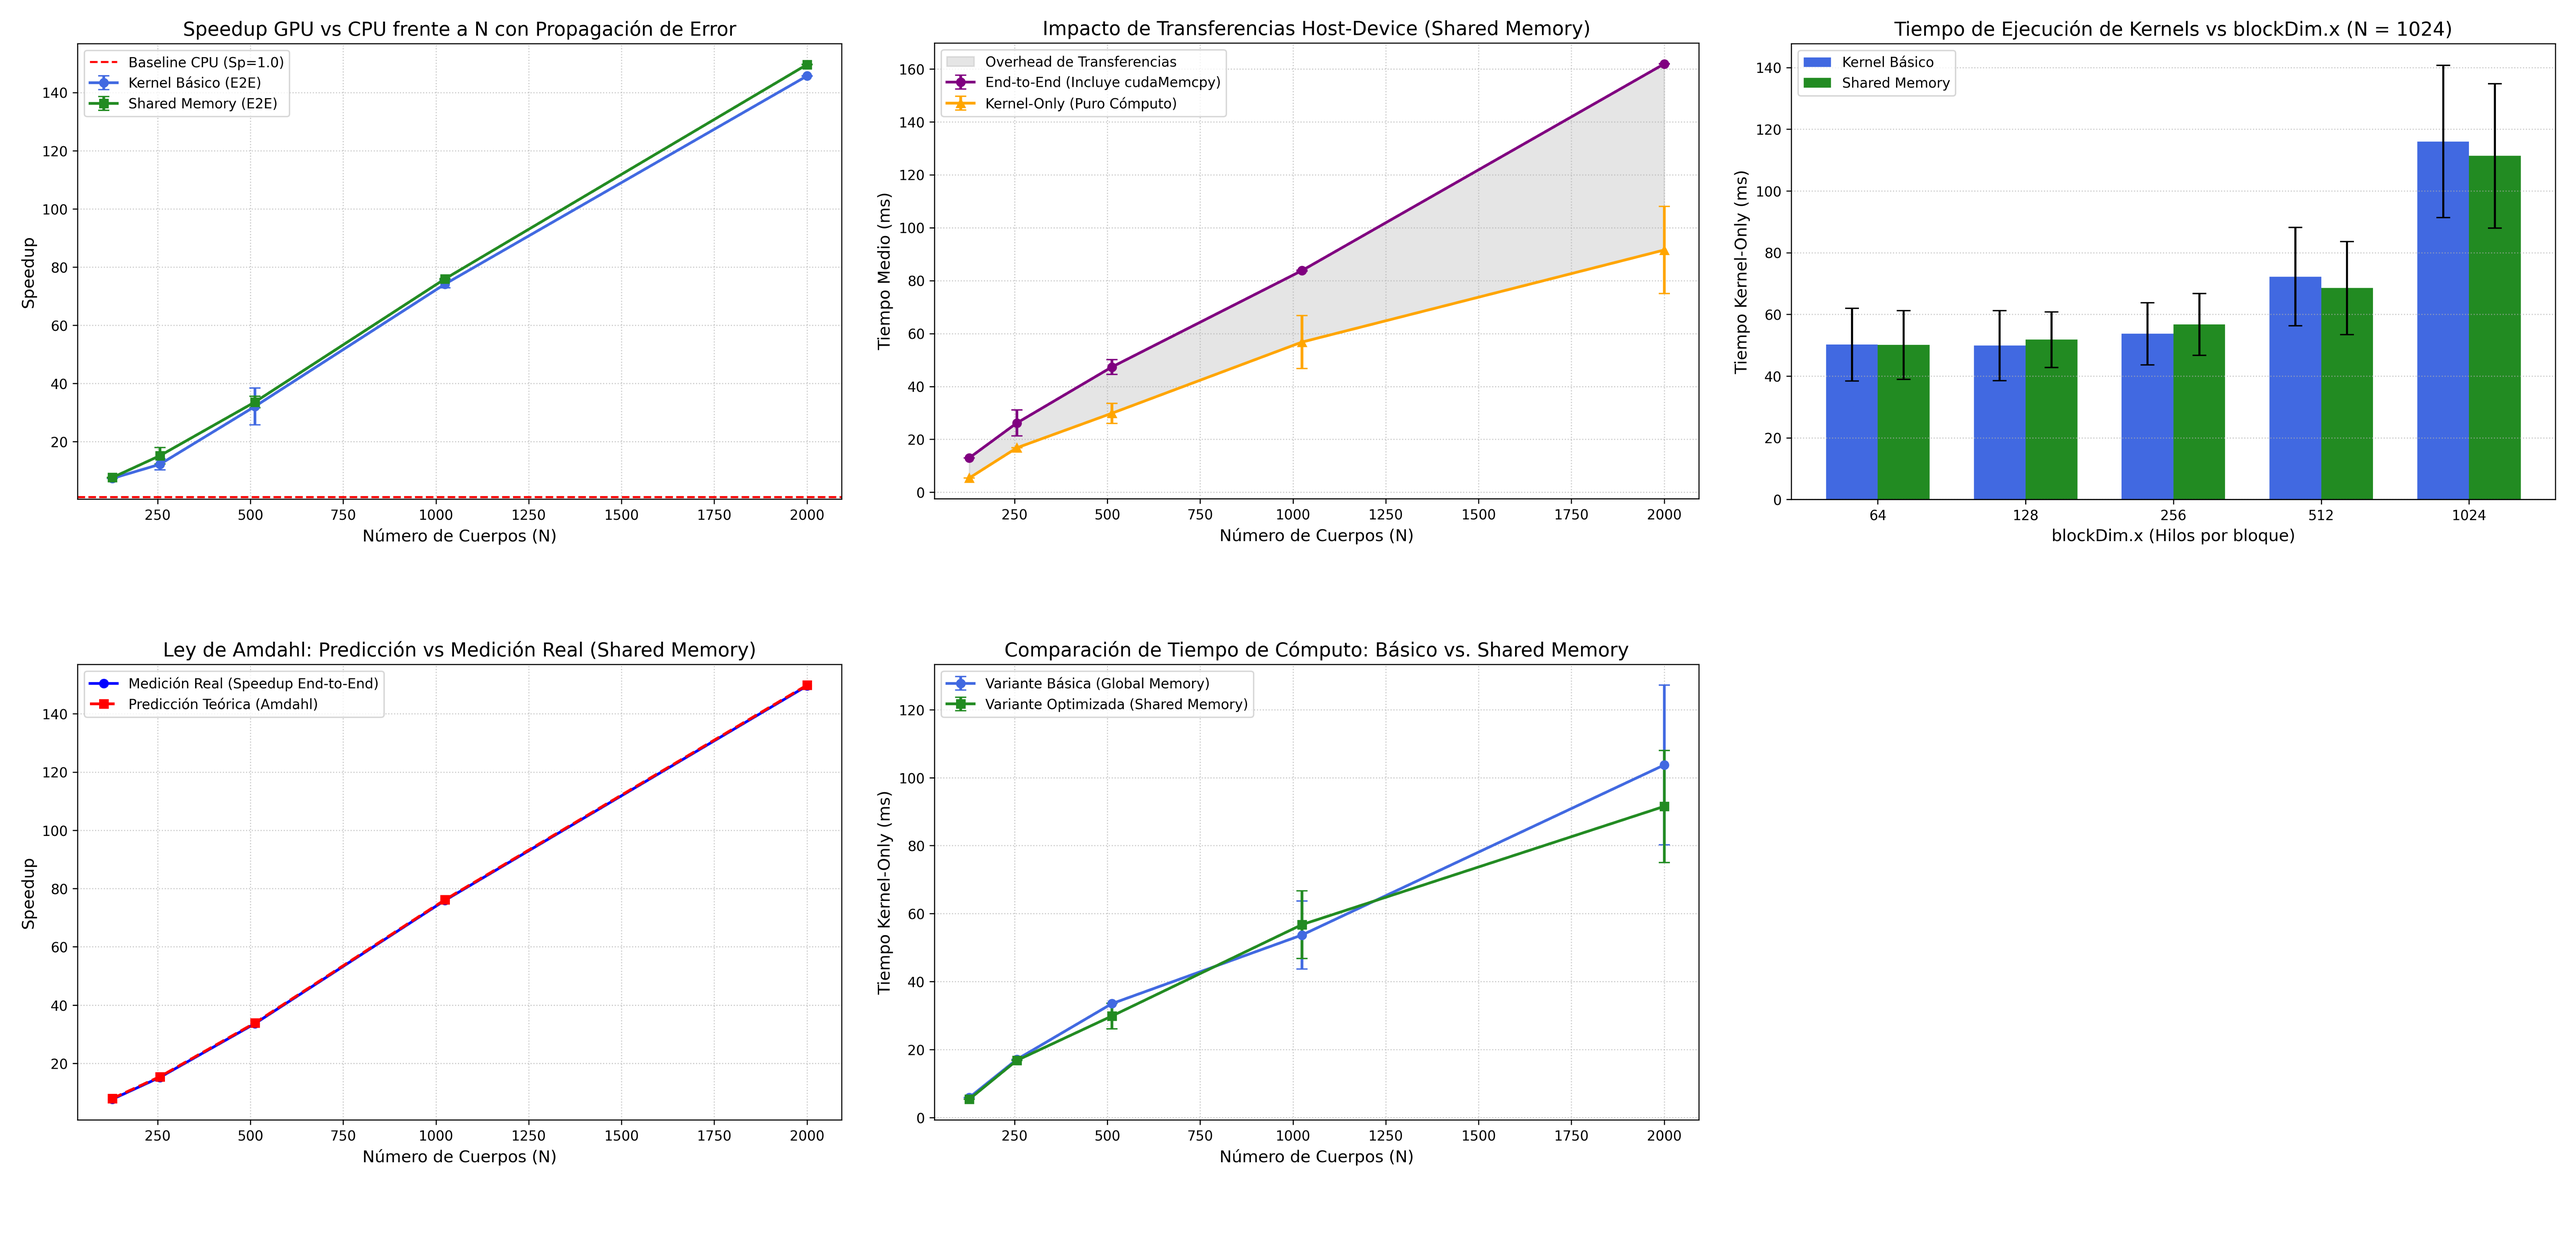
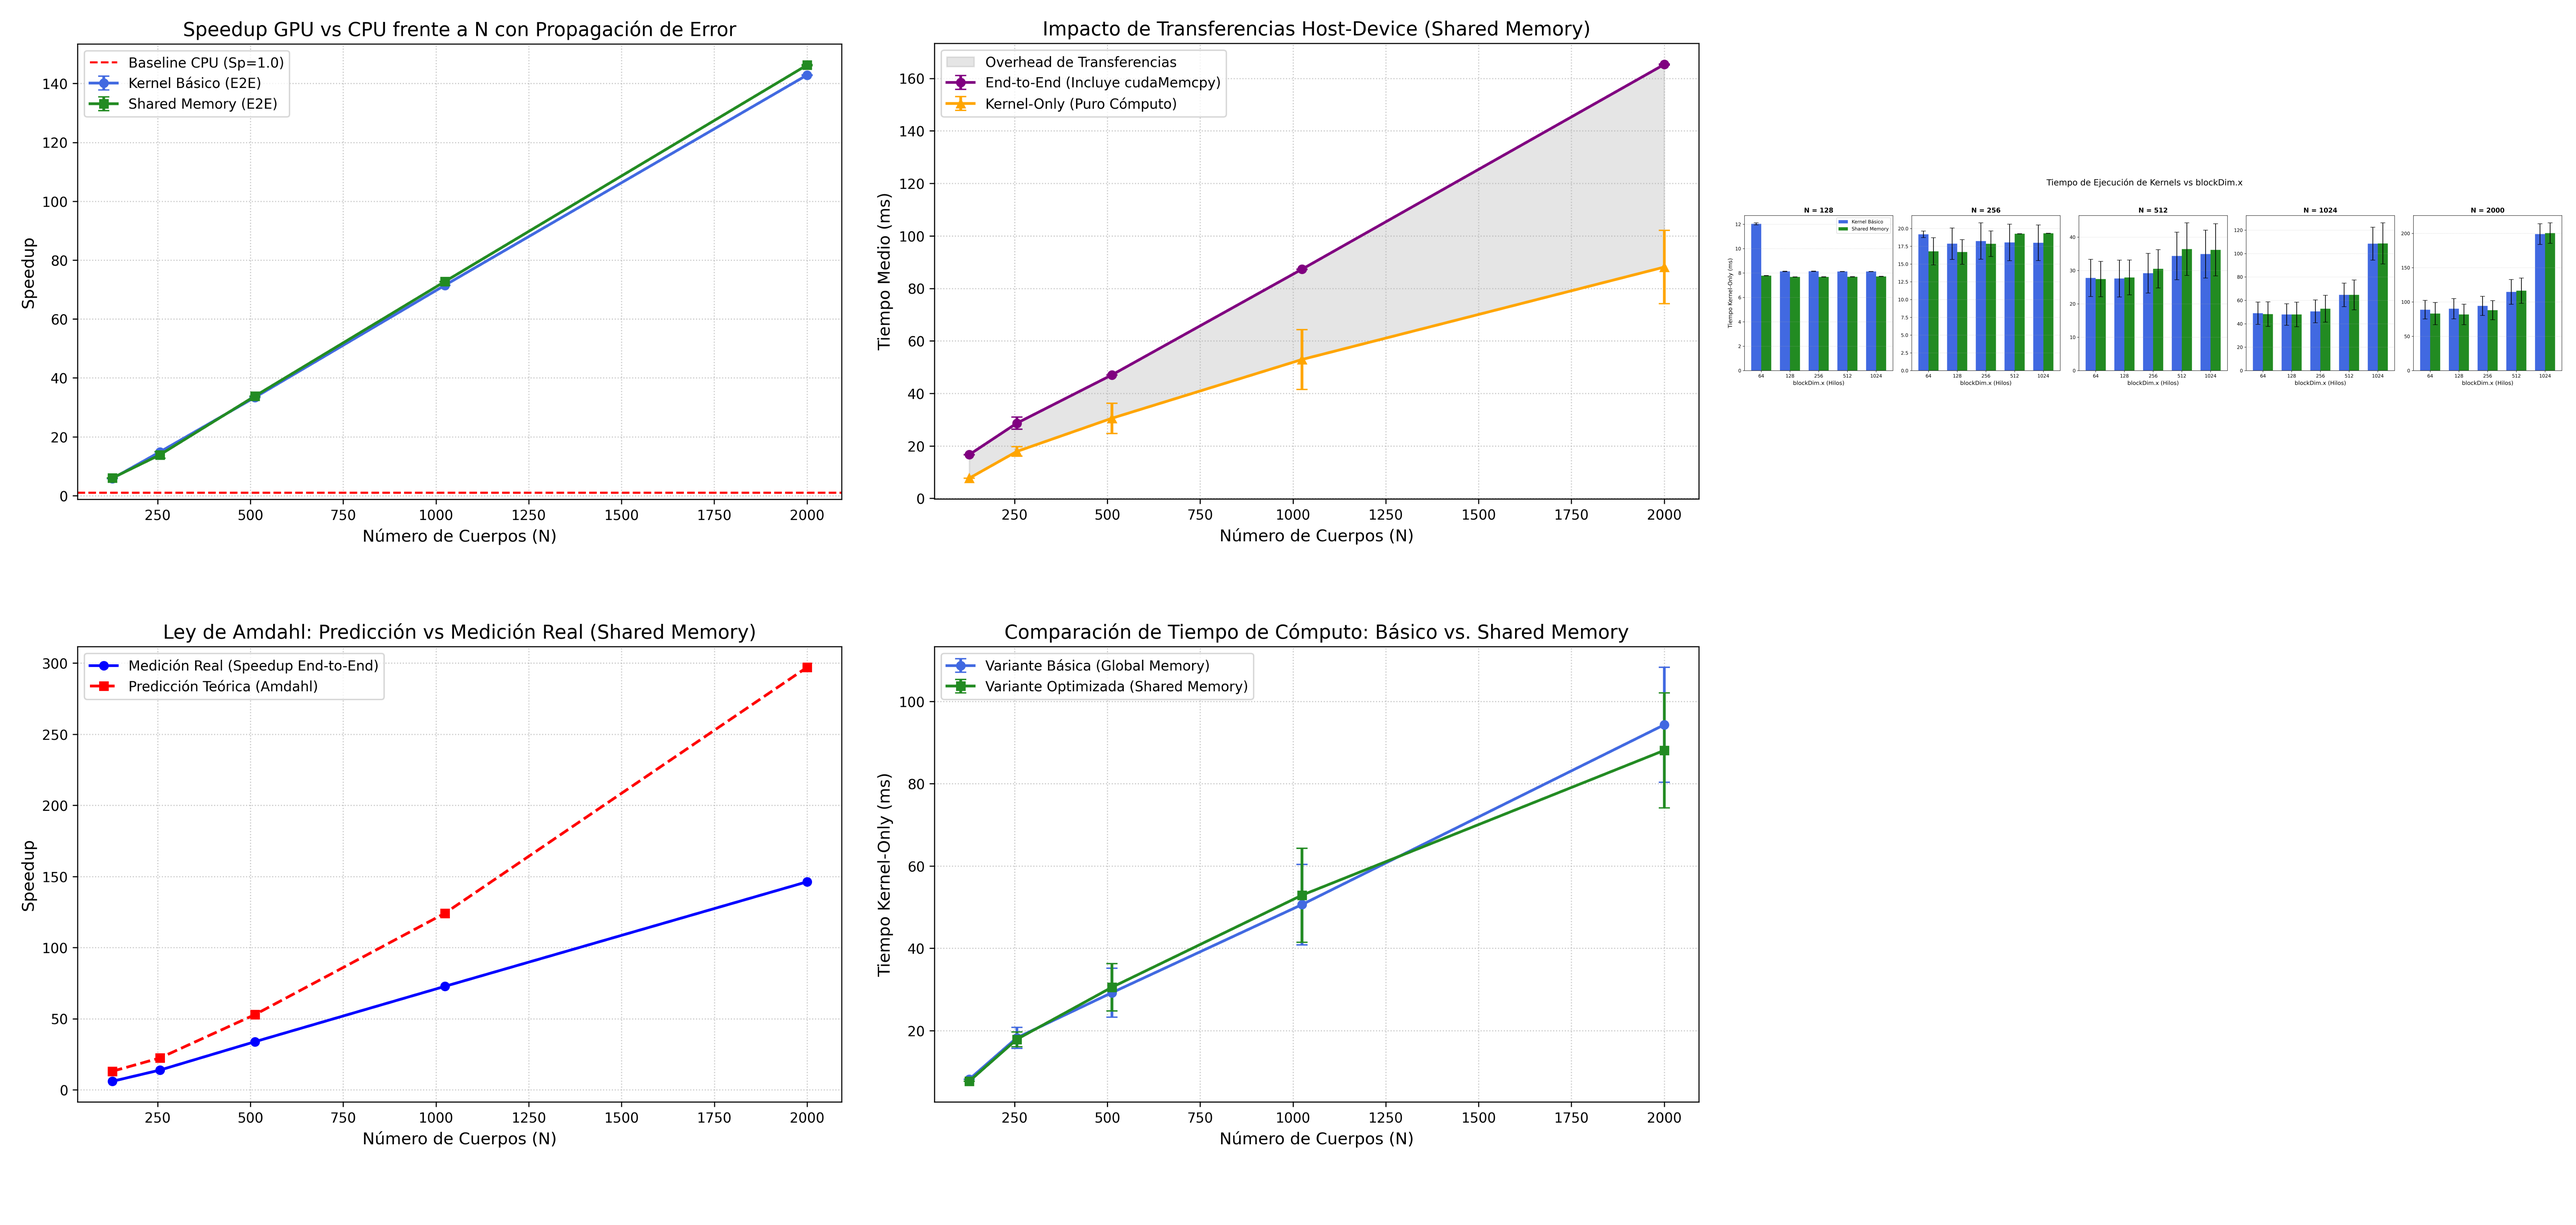
Fix al script del plot de los graficos del block dimensión

diff --git a/scripts/plot_blockdim.py b/scripts/plot_blockdim.py
@@ -5,31 +5,56 @@ import numpy as np
 filename = "blockdim_study.dat"
 
 try:
-    print(f"Generando estudio de blockDim desde {filename}...")
-    df = pd.read_csv(filename, sep=r'\s+', comment='#', skiprows=1,
-                     names=['BlockSize', 'Variant', 'N', 'GpuKernel_ms', 'KernelStdDev', 
-                            'GpuE2E_ms', 'E2EStdDev', 'SpeedupKernel', 'SpeedupE2E', 'Amdahl_f', 'Accuracy'])
+    print(f"Leyendo datos desde {filename}...")
+    # Ahora leemos el archivo permitiendo que Pandas infiera las columnas desde la línea 1
+    df = pd.read_csv(filename, sep=r'\s+')
     
-    plt.figure(figsize=(10, 6))
+    # Obtener todos los valores únicos de N simulados
+    n_values = df['N'].unique()
+    num_plots = len(n_values)
     
-    var0 = df[df['Variant'] == 0].sort_values('BlockSize')
-    var1 = df[df['Variant'] == 1].sort_values('BlockSize')
+    # Crear una figura dinámica dependiendo de la cantidad de tamaños N
+    fig, axes = plt.subplots(1, num_plots, figsize=(5 * num_plots, 6))
     
+    # Asegurarnos de que axes sea iterable en caso de que solo haya un N
+    if num_plots == 1:
+        axes = [axes]
+        
     bar_width = 0.35
-    index = np.arange(len(var0['BlockSize']))
     
-    plt.bar(index, var0['GpuKernel_ms'], bar_width, color='royalblue', label='Kernel Básico', yerr=var0['KernelStdDev'], capsize=5)
-    plt.bar(index + bar_width, var1['GpuKernel_ms'], bar_width, color='forestgreen', label='Shared Memory', yerr=var1['KernelStdDev'], capsize=5)
+    # Generar un subgráfico por cada valor de N
+    for i, n in enumerate(n_values):
+        ax = axes[i]
+        df_n = df[df['N'] == n]
+        
+        var0 = df_n[df_n['Variant'] == 0].sort_values('BlockSize')
+        var1 = df_n[df_n['Variant'] == 1].sort_values('BlockSize')
+        
+        index = np.arange(len(var0['BlockSize']))
+        
+        ax.bar(index, var0['GpuKernel_ms'], bar_width, color='royalblue', 
+               label='Kernel Básico', yerr=var0['KernelStdDev'], capsize=5)
+        ax.bar(index + bar_width, var1['GpuKernel_ms'], bar_width, color='forestgreen', 
+               label='Shared Memory', yerr=var1['KernelStdDev'], capsize=5)
+        
+        ax.set_title(f"N = {n}", fontsize=14, fontweight='bold')
+        ax.set_xlabel('blockDim.x (Hilos)', fontsize=12)
+        
+        # Solo mostrar la etiqueta del eje Y en el primer gráfico para no saturar
+        if i == 0:
+            ax.set_ylabel('Tiempo Kernel-Only (ms)', fontsize=12)
+            ax.legend()
+            
+        ax.set_xticks(index + bar_width / 2)
+        ax.set_xticklabels(var0['BlockSize'])
+        ax.grid(axis='y', linestyle=':', alpha=0.7)
     
-    plt.title(f"Tiempo de Ejecución de Kernels vs blockDim.x (N = {var0['N'].iloc[0]})", fontsize=14)
-    plt.xlabel('blockDim.x (Hilos por bloque)', fontsize=12)
-    plt.ylabel('Tiempo Kernel-Only (ms)', fontsize=12)
-    plt.xticks(index + bar_width / 2, var0['BlockSize'])
-    plt.legend()
-    plt.grid(axis='y', linestyle=':', alpha=0.7)
+    # Título principal de la figura completa
+    plt.suptitle('Tiempo de Ejecución de Kernels vs blockDim.x', fontsize=18, y=1.05)
     
+    plt.tight_layout()
     plt.savefig('plot_blockdim.png', dpi=300, bbox_inches='tight')
-    print("¡Éxito! Gráfico guardado como plot_blockdim.png")
+    print("¡Éxito! Gráfico consolidado guardado como plot_blockdim.png")
 
 except Exception as e:
     print(f"Error procesando los datos: {e}")

diff --git a/README.md b/README.md
@@ -92,8 +92,6 @@ python scripts/animate_simulation.py
 python scripts/plot_amdahl.py
 python scripts/plot_basic_vs_shared.py
 python scripts/plot_blockdim.py
-python scripts/plot_chunks.py
-python scripts/plot_efficiency.py
 python scripts/plot_energy.py
 python scripts/plot_kernel_vs_endtoend.py
 python scripts/plot_scalability.py
